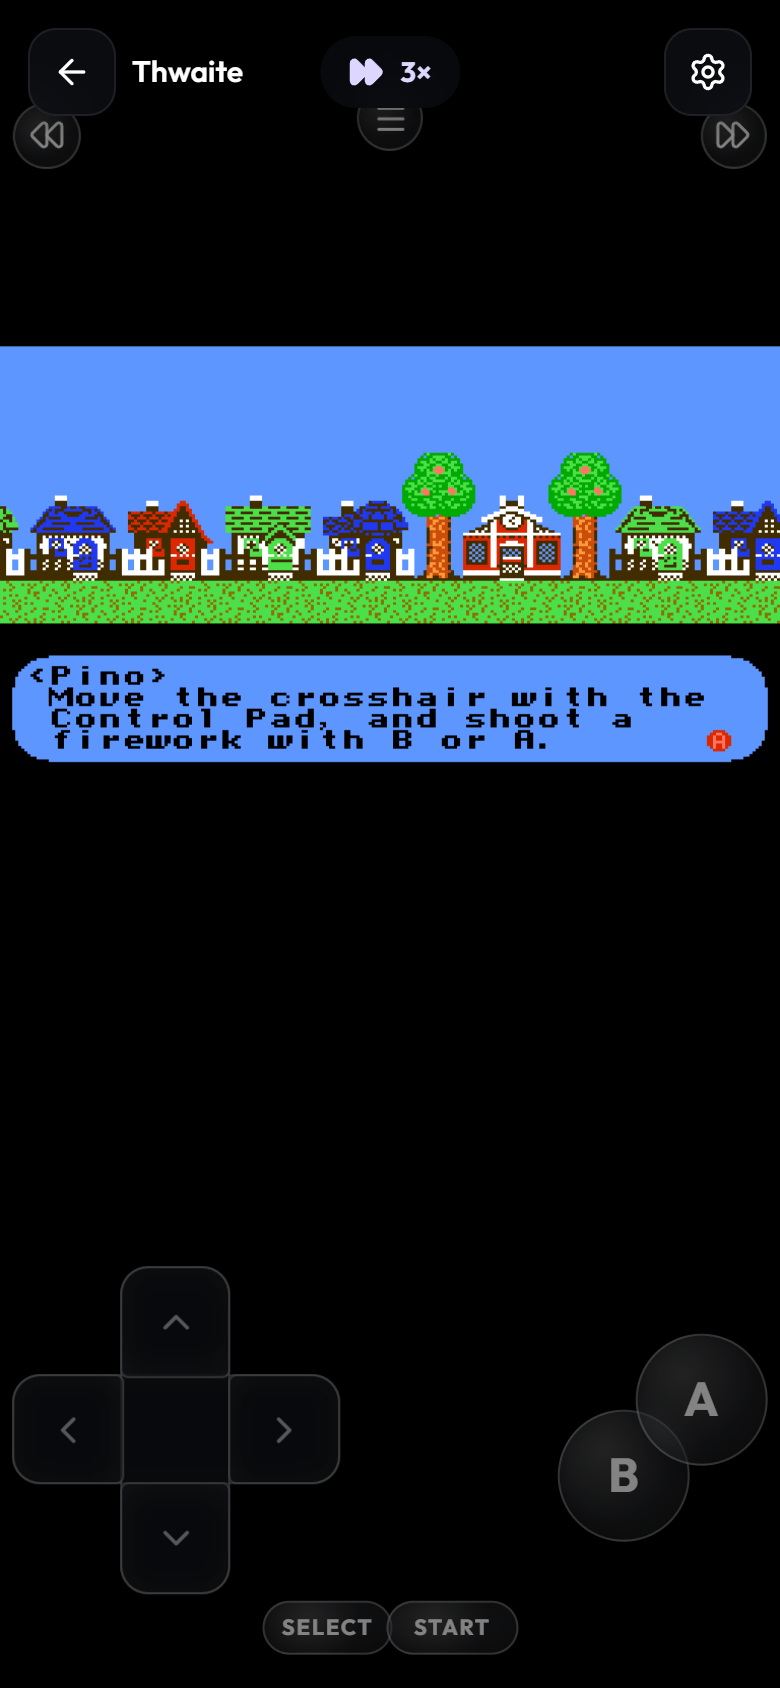
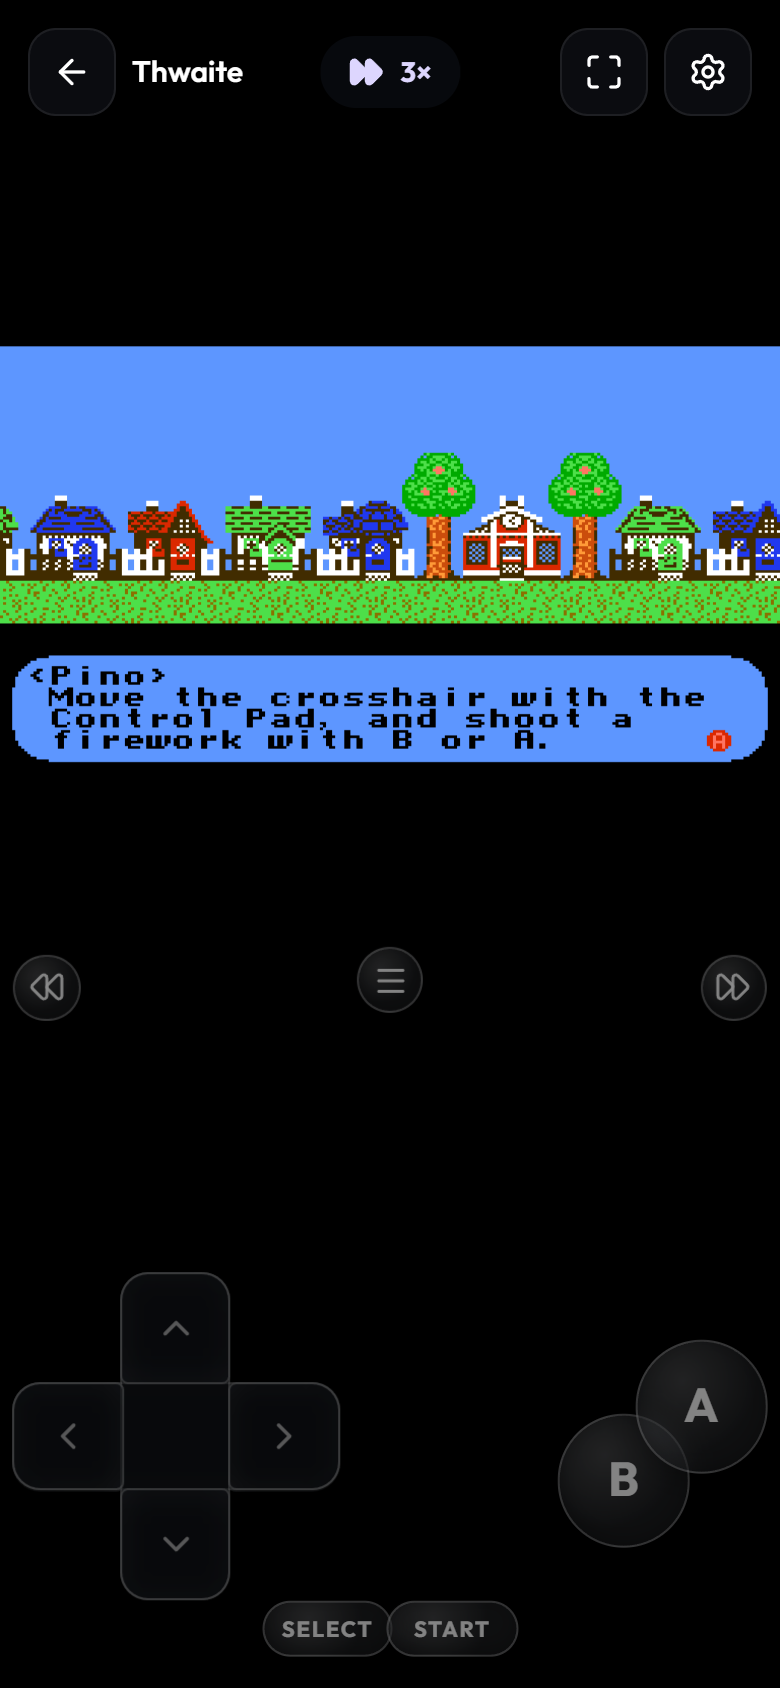
Touch controls: edge-anchored layout that stays compact on tablets and never overlaps on phones; refreshed screenshots

diff --git a/src/ui/TouchControls.tsx b/src/ui/TouchControls.tsx
@@ -10,7 +10,7 @@ export interface TItem { id: string; kind: 'dpad' | 'btn' | 'pill' | 'shoulder' 
 const face = (sys: SystemInfo): TItem[] => {
   const btn = (b: ButtonName, x: number, y: number, s = 0.16): TItem => ({ id: b, kind: 'btn', b, x, y, s, label: buttonLabel(sys, b) });
   switch (sys.id) {
-    case 'snes': return [btn('X', 0.86, 0.48), btn('A', 0.93, 0.63), btn('B', 0.86, 0.78), btn('Y', 0.79, 0.63)];
+    case 'snes': return [btn('X', 0.855, 0.47, 0.135), btn('A', 0.935, 0.63, 0.135), btn('B', 0.855, 0.79, 0.135), btn('Y', 0.775, 0.63, 0.135)];
     case 'genesis': return [btn('Y', 0.72, 0.74, 0.15), btn('B', 0.82, 0.70, 0.15), btn('A', 0.92, 0.66, 0.15),
       btn('L', 0.74, 0.52, 0.11), btn('X', 0.83, 0.48, 0.11), btn('R', 0.92, 0.44, 0.11)];
     default: return [btn('B', 0.80, 0.72, 0.17), btn('A', 0.92, 0.62, 0.17)];
@@ -56,14 +56,21 @@ export function TouchControls({ system, input, editing, onDone, onMenu, onFf, on
   const portrait = vw.h > vw.w;
   // sizes scale with the screen but stop growing on tablets (thumbs don't get bigger)
   const unit = Math.min(short, 430);
+  // Layout space -> screen: each control is anchored to its nearest edge (or the centre) in
+  // units of the control size, so clusters stay compact and evenly spaced on any screen.
+  // Portrait puts everything in the area under the game screen.
+  const region = portrait ? { y0: vw.h * 0.55, h: vw.h * 0.45 } : { y0: 0, h: vw.h };
+  const wr = Math.min(vw.w, unit * 1.9), hr = Math.min(region.h, unit * 0.95);
+  const toX = (x: number) => Math.abs(x - 0.5) < 0.15 ? vw.w / 2 + (x - 0.5) * wr : x < 0.5 ? x * wr : vw.w - (1 - x) * wr;
+  const toY = (y: number) => y < 0.4 ? region.y0 + y * hr : region.y0 + region.h - (1 - y) * hr;
+  const fromX = (px: number) => Math.abs(px - vw.w / 2) < 0.15 * wr ? 0.5 + (px - vw.w / 2) / wr : px < vw.w / 2 ? px / wr : 1 - (vw.w - px) / wr;
+  const fromY = (py: number) => py - region.y0 < 0.4 * hr ? (py - region.y0) / hr : 1 - (region.y0 + region.h - py) / hr;
   const pos = (it: TItem) => {
-    let y = it.y;
-    if (portrait && it.kind !== 'action') y = 0.55 + it.y * 0.45;
     const size = it.s * unit;
     const half = (it.kind === 'pill' ? size * 1.2 : it.kind === 'shoulder' ? size * 0.9 : size / 2) + 6;
     // keep every control fully on screen whatever the aspect ratio
-    const left = Math.min(vw.w - half, Math.max(half, it.x * vw.w));
-    const top = Math.min(vw.h - size / 2 - 6, Math.max(size / 2 + 6, y * vw.h));
+    const left = Math.min(vw.w - half, Math.max(half, toX(it.x)));
+    const top = Math.min(vw.h - size / 2 - 6, Math.max(size / 2 + 6, toY(it.y)));
     return { left, top, size };
   };
 
@@ -161,10 +168,8 @@ export function TouchControls({ system, input, editing, onDone, onMenu, onFf, on
   };
   const moveDrag = (e: PointerEvent) => {
     const d = drag.current; if (!d) return;
-    const x = Math.min(0.98, Math.max(0.02, (e.clientX - d.dx) / vw.w));
-    let y = Math.min(0.98, Math.max(0.02, (e.clientY - d.dy) / vw.h));
-    const it = items.find(i => i.id === d.id)!;
-    if (portrait && it.kind !== 'action') y = Math.min(1, Math.max(0, (y - 0.55) / 0.45));
+    const x = Math.min(0.98, Math.max(0.02, fromX(e.clientX - d.dx)));
+    const y = Math.min(0.98, Math.max(0.02, fromY(e.clientY - d.dy)));
     setItems(l => l.map(i => i.id === d.id ? { ...i, x, y } : i));
   };
   const resize = (k: number) => sel && setItems(l => l.map(i => i.id === sel ? { ...i, s: Math.min(0.6, Math.max(0.05, i.s * k)) } : i));
